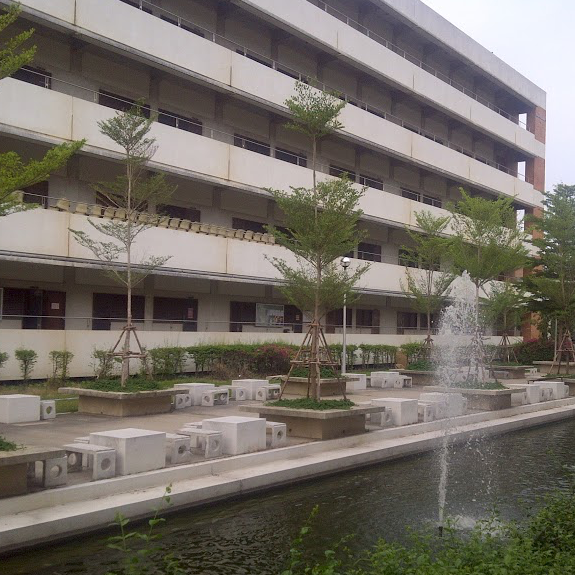
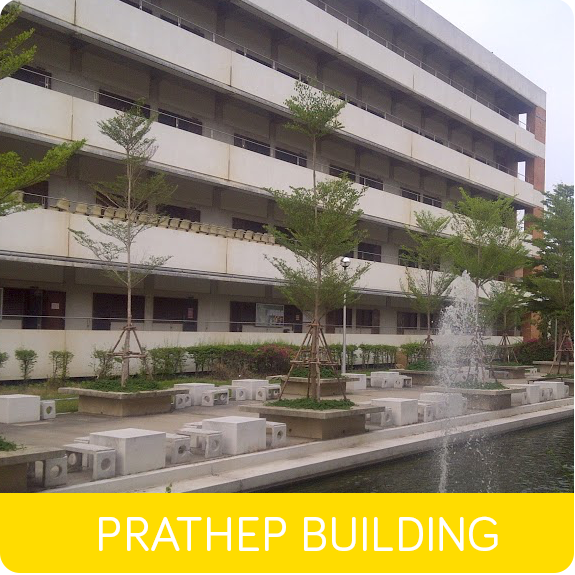
add place image

Changed region(s): [[0.0, 0.8574, 1.0, 1.0], [0.0, 0.0, 0.0296, 0.0296]]

diff --git a/Carpool/src/sample/driverProfileController.java b/Carpool/src/sample/driverProfileController.java
@@ -198,9 +198,7 @@ public class driverProfileController {
 //                        seat1.setFill(Color.valueOf("#cf2e51"));
 //                        car1.setFill(Color.valueOf("#cf2e51"));
 //                    }
-            }
-
-            else if (ev.getEventID() == 2) {
+            } else if (ev.getEventID() == 2) {
                 block2.setVisible(true);
                 to2.setText(ev.getTo());
                 from2.setText(ev.getFrom());
@@ -212,58 +210,43 @@ public class driverProfileController {
                     TO_2.setFill(Color.valueOf("#1bb64f"));
                     FROM_2.setFill(Color.valueOf("#1bb64f"));
                     Arrive_2.setFill(Color.valueOf("#1bb64f"));
-                }
-                else if (ev.getTo().equals("RNP")) {
+                } else if (ev.getTo().equals("RNP")) {
                     img2.setImage(new Image("place/RNP.png"));
                     TO_2.setFill(Color.valueOf("#1274d2"));
                     FROM_2.setFill(Color.valueOf("#1274d2"));
                     Arrive_2.setFill(Color.valueOf("#1274d2"));
-                }
-                else if (ev.getTo().equals("A Cafeteria")) {
+                } else if (ev.getTo().equals("A Cafeteria")) {
                     img2.setImage(new Image("place/A.png"));
                     TO_2.setFill(Color.valueOf("#fd9139"));
                     FROM_2.setFill(Color.valueOf("#fd9139"));
                     Arrive_2.setFill(Color.valueOf("#fd9139"));
-                }
-                else if (ev.getTo().equals("Central Library")) {
+                } else if (ev.getTo().equals("Central Library")) {
                     img2.setImage(new Image("place/library.png"));
                     TO_2.setFill(Color.valueOf("#a12fb5"));
                     FROM_2.setFill(Color.valueOf("#a12fb5"));
                     Arrive_2.setFill(Color.valueOf("#a12fb5"));
-                }
-                else if (ev.getTo().equals("Faculty of Science")) {
+                } else if (ev.getTo().equals("Faculty of Science")) {
                     img2.setImage(new Image("place/sci.png"));
                     TO_2.setFill(Color.valueOf("#92b923"));
                     FROM_2.setFill(Color.valueOf("#92b923"));
                     Arrive_2.setFill(Color.valueOf("#92b923"));
-                }
-                else if (ev.getTo().equals("ECC Building")) {
+                } else if (ev.getTo().equals("ECC Building")) {
                     img2.setImage(new Image("place/ECC.png"));
                     TO_2.setFill(Color.valueOf("#cf2e51"));
                     FROM_2.setFill(Color.valueOf("#cf2e51"));
                     Arrive_2.setFill(Color.valueOf("#cf2e51"));
+                } else if (ev.getTo().equals("Prathep Building")) {
+                    img2.setImage(new Image("place/prathep.png"));
+                    TO_2.setFill(Color.valueOf("#ffda2e"));
+                    FROM_2.setFill(Color.valueOf("#ffda2e"));
+                    Arrive_2.setFill(Color.valueOf("#ffda2e"));
+                } else if (ev.getTo().equals("Kae Ki")) {
+                    img2.setImage(new Image("place/kaeki.png"));
+                    TO_2.setFill(Color.valueOf("#55b4f1"));
+                    FROM_2.setFill(Color.valueOf("#55b4f1"));
+                    Arrive_2.setFill(Color.valueOf("#55b4f1"));
                 }
-                //                    else if (ev.getTo().equals("Prathep Building")){
-                //                        img1.setImage(new Image("place/ECC.png"));
-                //                        to1.setFill(Color.valueOf("#cf2e51"));
-                //                        from1.setFill(Color.valueOf("#cf2e51"));
-                //                        time1.setFill(Color.valueOf("#cf2e51"));
-                //                        date1.setFill(Color.valueOf("#cf2e51"));
-                //                        seat1.setFill(Color.valueOf("#cf2e51"));
-                //                        car1.setFill(Color.valueOf("#cf2e51"));
-                //                    }
-                //                    else if (ev.getTo().equals("Kae Ki")){
-                //                        img1.setImage(new Image("place/ECC.png"));
-                //                        to1.setFill(Color.valueOf("#cf2e51"));
-                //                        from1.setFill(Color.valueOf("#cf2e51"));
-                //                        time1.setFill(Color.valueOf("#cf2e51"));
-                //                        date1.setFill(Color.valueOf("#cf2e51"));
-                //                        seat1.setFill(Color.valueOf("#cf2e51"));
-                //                        car1.setFill(Color.valueOf("#cf2e51"));
-                //                    }
-            }
-
-            else if (ev.getEventID() == 3) {
+            } else if (ev.getEventID() == 3) {
                 block3.setVisible(true);
                 to3.setText(ev.getTo());
                 from3.setText(ev.getFrom());
@@ -275,32 +258,27 @@ public class driverProfileController {
                     TO_3.setFill(Color.valueOf("#1bb64f"));
                     FROM_3.setFill(Color.valueOf("#1bb64f"));
                     Arrive_3.setFill(Color.valueOf("#1bb64f"));
-                }
-                else if (ev.getTo().equals("RNP")) {
+                } else if (ev.getTo().equals("RNP")) {
                     img3.setImage(new Image("place/RNP.png"));
                     TO_3.setFill(Color.valueOf("#1274d2"));
                     FROM_3.setFill(Color.valueOf("#1274d2"));
                     Arrive_3.setFill(Color.valueOf("#1274d2"));
-                }
-                else if (ev.getTo().equals("A Cafeteria")) {
+                } else if (ev.getTo().equals("A Cafeteria")) {
                     img3.setImage(new Image("place/A.png"));
                     TO_3.setFill(Color.valueOf("#fd9139"));
                     FROM_3.setFill(Color.valueOf("#fd9139"));
                     Arrive_3.setFill(Color.valueOf("#fd9139"));
-                }
-                else if (ev.getTo().equals("Central Library")) {
+                } else if (ev.getTo().equals("Central Library")) {
                     img3.setImage(new Image("place/library.png"));
                     TO_3.setFill(Color.valueOf("#a12fb5"));
                     FROM_3.setFill(Color.valueOf("#a12fb5"));
                     Arrive_3.setFill(Color.valueOf("#a12fb5"));
-                }
-                else if (ev.getTo().equals("Faculty of Science")) {
+                } else if (ev.getTo().equals("Faculty of Science")) {
                     img3.setImage(new Image("place/sci.png"));
                     TO_3.setFill(Color.valueOf("#92b923"));
                     FROM_3.setFill(Color.valueOf("#92b923"));
                     Arrive_3.setFill(Color.valueOf("#92b923"));
-                }
-                else if (ev.getTo().equals("ECC Building")) {
+                } else if (ev.getTo().equals("ECC Building")) {
                     img3.setImage(new Image("place/ECC.png"));
                     TO_3.setFill(Color.valueOf("#cf2e51"));
                     FROM_3.setFill(Color.valueOf("#cf2e51"));
@@ -324,9 +302,7 @@ public class driverProfileController {
                 //                        seat1.setFill(Color.valueOf("#cf2e51"));
                 //                        car1.setFill(Color.valueOf("#cf2e51"));
                 //                    }
-            }
-
-            else if (ev.getEventID() == 4) {
+            } else if (ev.getEventID() == 4) {
                 block4.setVisible(true);
                 to4.setText(ev.getTo());
                 from4.setText(ev.getFrom());
@@ -338,32 +314,27 @@ public class driverProfileController {
                     TO_4.setFill(Color.valueOf("#1bb64f"));
                     FROM_4.setFill(Color.valueOf("#1bb64f"));
                     Arrive_4.setFill(Color.valueOf("#1bb64f"));
-                }
-                else if (ev.getTo().equals("RNP")) {
+                } else if (ev.getTo().equals("RNP")) {
                     img4.setImage(new Image("place/RNP.png"));
                     TO_4.setFill(Color.valueOf("#1274d2"));
                     FROM_4.setFill(Color.valueOf("#1274d2"));
                     Arrive_4.setFill(Color.valueOf("#1274d2"));
-                }
-                else if (ev.getTo().equals("A Cafeteria")) {
+                } else if (ev.getTo().equals("A Cafeteria")) {
                     img4.setImage(new Image("place/A.png"));
                     TO_4.setFill(Color.valueOf("#fd9139"));
                     FROM_4.setFill(Color.valueOf("#fd9139"));
                     Arrive_4.setFill(Color.valueOf("#fd9139"));
-                }
-                else if (ev.getTo().equals("Central Library")) {
+                } else if (ev.getTo().equals("Central Library")) {
                     img4.setImage(new Image("place/library.png"));
                     TO_4.setFill(Color.valueOf("#a12fb5"));
                     FROM_4.setFill(Color.valueOf("#a12fb5"));
                     Arrive_4.setFill(Color.valueOf("#a12fb5"));
-                }
-                else if (ev.getTo().equals("Faculty of Science")) {
+                } else if (ev.getTo().equals("Faculty of Science")) {
                     img4.setImage(new Image("place/sci.png"));
                     TO_4.setFill(Color.valueOf("#92b923"));
                     FROM_4.setFill(Color.valueOf("#92b923"));
                     Arrive_4.setFill(Color.valueOf("#92b923"));
-                }
-                else if (ev.getTo().equals("ECC Building")) {
+                } else if (ev.getTo().equals("ECC Building")) {
                     img4.setImage(new Image("place/ECC.png"));
                     TO_4.setFill(Color.valueOf("#cf2e51"));
                     FROM_4.setFill(Color.valueOf("#cf2e51"));
